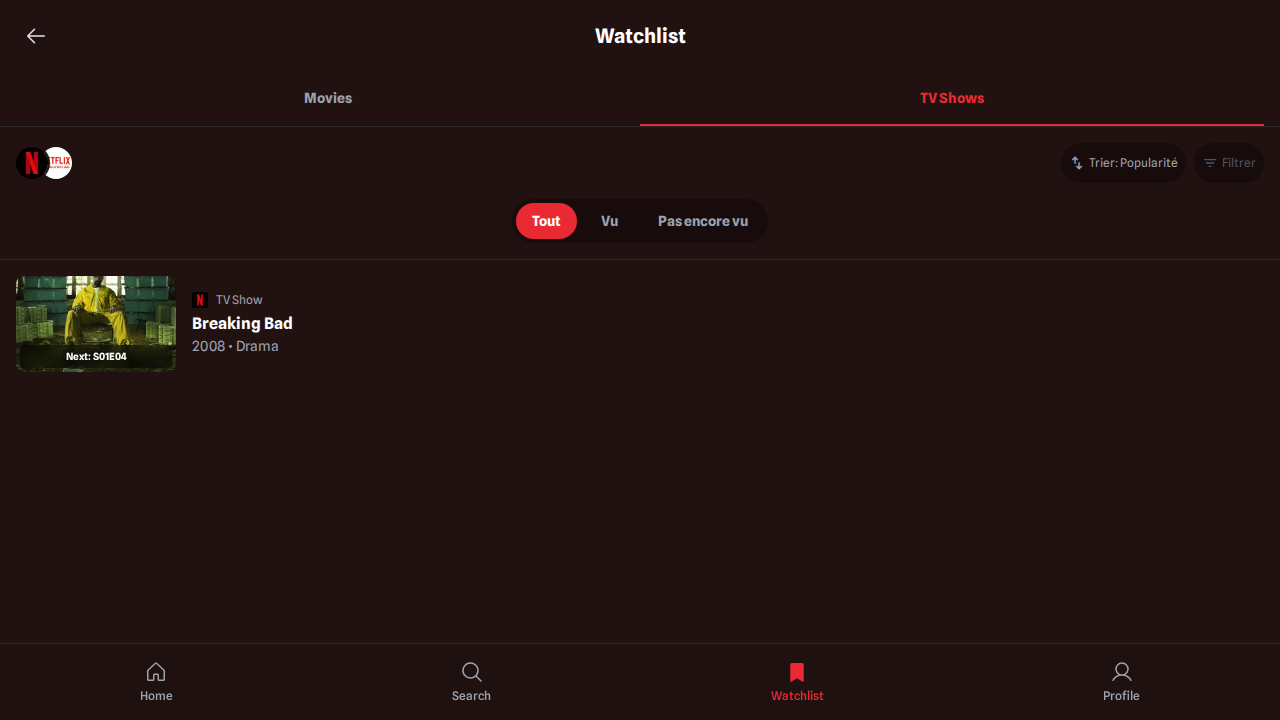
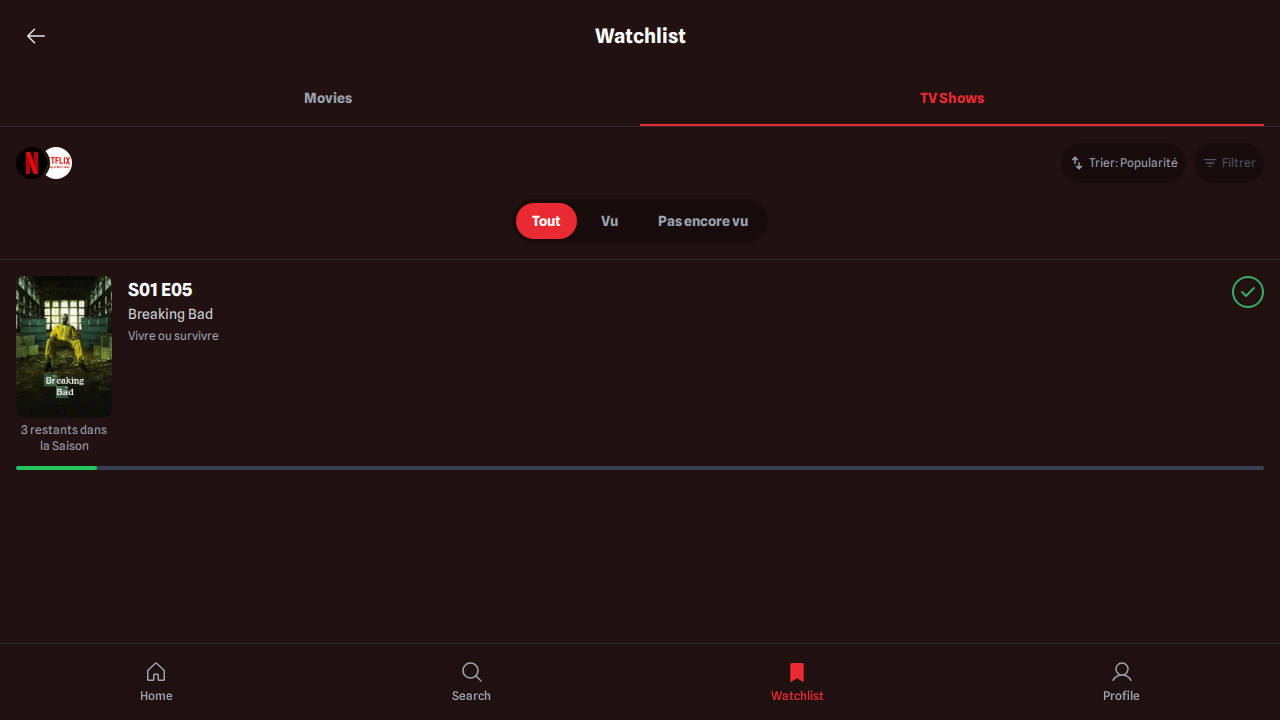
feat(series): Implement episode tracking and redesign watchlist
This commit introduces a comprehensive episode tracking system for TV series and a complete redesign of the "My List" page, which has been renamed to "Watchlist".

Key features include:
- Users can now mark individual episodes as watched on a series' detail page.
- The state of watched episodes is saved to localStorage.
- Checking the first episode automatically adds the series to the watchlist.
- When all episodes are watched, the series is automatically marked as 'viewed'.
- A confirmation modal is shown if a user marks a partially watched series as fully viewed.

The Watchlist page (`watchlist.html`) has been completely redesigned to provide a richer user experience:
- It now displays different UI cards for unwatched and in-progress TV shows.
- In-progress shows display the next episode to watch, a progress bar, and a button to quickly mark the next episode as watched.
- Implemented a localStorage-based caching system for TMDB API calls to significantly improve performance and reduce load times.

Changed region(s): [[0.0, 0.5806, 1.0, 0.6722], [0.0, 0.3667, 0.25, 0.55], [0.9688, 0.3972, 1.0, 0.4278]]

diff --git a/watchlist.js b/watchlist.js
@@ -70,12 +70,35 @@ document.addEventListener('alpine:init', () => {
             }).filter(Boolean);
         },
 
+        getCachedData(key) {
+            const cached = localStorage.getItem(key);
+            if (!cached) return null;
+
+            const { timestamp, data } = JSON.parse(cached);
+            const isExpired = (new Date().getTime() - timestamp) > 24 * 60 * 60 * 1000; // 24 hours
+
+            return isExpired ? null : data;
+        },
+
+        setCachedData(key, data) {
+            const item = {
+                timestamp: new Date().getTime(),
+                data: data
+            };
+            localStorage.setItem(key, JSON.stringify(item));
+        },
+
         async fetchMovieDetails(movieId) {
+            const cacheKey = `movie-details-${movieId}`;
+            const cachedData = this.getCachedData(cacheKey);
+            if (cachedData) return cachedData;
+
             try {
                 const res = await fetch(`https://api.themoviedb.org/3/movie/${movieId}?api_key=${TMDB_API_KEY}&append_to_response=watch/providers&language=fr-FR`);
                 if (!res.ok) return null;
                 const data = await res.json();
                 data.providers = data['watch/providers']?.results?.FR?.flatrate || [];
+                this.setCachedData(cacheKey, data);
                 return data;
             } catch (e) {
                 return null;
@@ -83,6 +106,10 @@ document.addEventListener('alpine:init', () => {
         },
 
         async fetchFullSeriesDetails(seriesId) {
+            const cacheKey = `series-details-${seriesId}`;
+            const cachedData = this.getCachedData(cacheKey);
+            if (cachedData) return cachedData;
+
             try {
                 const seriesRes = await fetch(`https://api.themoviedb.org/3/tv/${seriesId}?api_key=${TMDB_API_KEY}&append_to_response=watch/providers&language=fr-FR`);
                 if (!seriesRes.ok) return null;
@@ -98,6 +125,8 @@ document.addEventListener('alpine:init', () => {
 
                 const seasonsWithEpisodes = await Promise.all(seasonPromises);
                 seriesData.seasons = seasonsWithEpisodes.filter(s => s);
+
+                this.setCachedData(cacheKey, seriesData);
                 return seriesData;
             } catch (e) {
                 console.error(`Failed to fetch full details for series ${seriesId}:`, e);
@@ -209,10 +238,18 @@ document.addEventListener('alpine:init', () => {
         },
 
         async createMediaItemHTML(item) {
-            const isTV = item.type === 'serie';
-            const link = isTV ? `serie.html?id=${item.id}` : `film.html?id=${item.id}`;
-            const yearAndGenre = `${item.year} • ${item.genres[0]}`;
+            if (item.type === 'movie') {
+                return this.createMovieItemHTML(item);
+            }
+            if (item.type === 'serie') {
+                return this.createTVItemHTML(item);
+            }
+            return '';
+        },
 
+        createMovieItemHTML(item) {
+            const link = `film.html?id=${item.id}`;
+            const yearAndGenre = `${item.year} • ${item.genres[0]}`;
             const providers = item.apiDetails?.providers;
             const platformLogo = providers && providers.length > 0
                 ? `<img src="https://image.tmdb.org/t/p/w500${providers[0].logo_path}" alt="${providers[0].provider_name}" class="h-4 w-4 rounded-sm">`
@@ -224,42 +261,11 @@ document.addEventListener('alpine:init', () => {
                     <div class="absolute inset-0 flex items-center justify-center rounded-lg bg-black/60">
                         <div class="text-center">
                             <div class="inline-flex h-8 w-8 items-center justify-center rounded-full bg-green-500 text-white">
-                                <svg fill="none" height="20" stroke="currentColor" stroke-linecap="round" stroke-linejoin="round" stroke-width="3" viewBox="0 0 24 24" width="20" xmlns="http://www.w3.org/2000/svg">
-                                    <polyline points="20 6 9 17 4 12"></polyline>
-                                </svg>
+                                <svg fill="none" height="20" stroke="currentColor" stroke-linecap="round" stroke-linejoin="round" stroke-width="3" viewBox="0 0 24 24" width="20" xmlns="http://www.w3.org/2000/svg"><polyline points="20 6 9 17 4 12"></polyline></svg>
                             </div>
                             <p class="mt-1 text-xs font-semibold text-white">Watched</p>
                         </div>
                     </div>`;
-            } else if (isTV && item.apiDetails) {
-                const watchedEpisodes = JSON.parse(localStorage.getItem('watchedEpisodes')) || {};
-                const seriesWatchedEpisodes = new Set(watchedEpisodes[item.id] || []);
-                const watchedCount = seriesWatchedEpisodes.size;
-
-                if (watchedCount > 0 && watchedCount < item.apiDetails.number_of_episodes) {
-                    let nextEpisode = null;
-                    const sortedSeasons = item.apiDetails.seasons
-                        .filter(s => s.season_number > 0)
-                        .sort((a, b) => a.season_number - b.season_number);
-
-                    for (const season of sortedSeasons) {
-                        const sortedEpisodes = season.episodes.sort((a, b) => a.episode_number - b.episode_number);
-                        for (const episode of sortedEpisodes) {
-                            if (!seriesWatchedEpisodes.has(episode.id)) {
-                                nextEpisode = episode;
-                                break;
-                            }
-                        }
-                        if (nextEpisode) break;
-                    }
-
-                    if (nextEpisode) {
-                        overlayHTML = `
-                        <div class="absolute bottom-1 left-1 right-1 rounded bg-black/50 p-1 backdrop-blur-sm text-center">
-                           <p class="text-[10px] font-semibold text-white">Next: S${this.formatEpisodeNumber(nextEpisode.season_number)}E${this.formatEpisodeNumber(nextEpisode.episode_number)}</p>
-                        </div>`;
-                    }
-                }
             }
 
             return `
@@ -271,17 +277,162 @@ document.addEventListener('alpine:init', () => {
                     <div class="flex-1">
                         <div class="flex items-center gap-2">
                            ${platformLogo}
-                           <p class="text-xs text-gray-500 dark:text-gray-400">${isTV ? 'TV Show' : 'Movie'}</p>
+                           <p class="text-xs text-gray-500 dark:text-gray-400">Movie</p>
                         </div>
                         <h3 class="font-bold text-gray-900 dark:text-white mt-1">${item.title}</h3>
                         <p class="text-sm text-gray-500 dark:text-gray-400">${yearAndGenre}</p>
                     </div>
-                </a>
-            `;
+                </a>`;
+        },
+
+        createTVItemHTML(item) {
+            const watchedEpisodes = JSON.parse(localStorage.getItem('watchedEpisodes')) || {};
+            const seriesWatchedEpisodes = new Set(watchedEpisodes[item.id] || []);
+            const watchedCount = seriesWatchedEpisodes.size;
+
+            if (item.isWatched || (item.apiDetails && watchedCount > 0 && watchedCount === item.apiDetails.number_of_episodes)) {
+                 return `
+                    <a href="serie.html?id=${item.id}" class="flex items-center gap-4 p-4">
+                        <div class="relative h-24 w-40 flex-shrink-0">
+                            <div class="h-full w-full rounded-lg bg-cover bg-center" style="background-image: url('${item.posterUrl}');"></div>
+                            <div class="absolute inset-0 flex items-center justify-center rounded-lg bg-black/60">
+                                <div class="text-center">
+                                    <div class="inline-flex h-8 w-8 items-center justify-center rounded-full bg-green-500 text-white"><svg fill="none" height="20" stroke="currentColor" stroke-linecap="round" stroke-linejoin="round" stroke-width="3" viewBox="0 0 24 24" width="20" xmlns="http://www.w3.org/2000/svg"><polyline points="20 6 9 17 4 12"></polyline></svg></div>
+                                    <p class="mt-1 text-xs font-semibold text-white">Watched</p>
+                                </div>
+                            </div>
+                        </div>
+                        <div class="flex-1">
+                            <h3 class="font-bold text-gray-900 dark:text-white">${item.title}</h3>
+                            <p class="text-sm text-gray-500 dark:text-gray-400">${item.year} • ${item.genres[0]}</p>
+                        </div>
+                    </a>`;
+            }
+
+            if (watchedCount > 0 && item.apiDetails) {
+                return this.createInProgressTVItemHTML(item, seriesWatchedEpisodes);
+            }
+
+            return this.createUnwatchedTVItemHTML(item);
+        },
+
+        createUnwatchedTVItemHTML(item) {
+            if (!item.apiDetails || !item.apiDetails.seasons) return '<div class="p-4 text-gray-400">Loading show details...</div>';
+
+            const firstSeason = item.apiDetails.seasons.find(s => s.season_number === 1);
+            if (!firstSeason || !firstSeason.episodes || firstSeason.episodes.length === 0) return '';
+
+            const firstEpisode = firstSeason.episodes.find(e => e.episode_number === 1);
+            if (!firstEpisode) return '';
+
+            const providers = item.apiDetails?.providers;
+            const platformHTML = providers && providers.length > 0
+                ? `<div class="flex items-center gap-2 mt-2">
+                       <span class="text-xs text-gray-400">dispo sur</span>
+                       <img src="https://image.tmdb.org/t/p/w500${providers[0].logo_path}" alt="${providers[0].provider_name}" class="h-5">
+                   </div>`
+                : '';
+
+            const totalSeasons = item.apiDetails.number_of_seasons;
+            const startYear = item.year.split(' - ')[0];
+
+            return `
+                <div class="flex items-start gap-4 p-4">
+                    <a href="serie.html?id=${item.id}" class="w-24 flex-shrink-0">
+                        <img class="w-full rounded-lg" src="${item.posterUrl}" alt="${item.title}">
+                    </a>
+                    <div class="flex-1">
+                        <a href="serie.html?id=${item.id}">
+                            <h3 class="font-bold text-lg text-white">${item.title}</h3>
+                            <p class="text-sm text-gray-400">${totalSeasons} saisons | ${startYear}</p>
+                        </a>
+                        <div class="mt-4">
+                            <p class="text-sm font-semibold text-gray-300">${firstEpisode.name}</p>
+                            ${platformHTML}
+                        </div>
+                    </div>
+                </div>`;
+        },
+
+        createInProgressTVItemHTML(item, seriesWatchedEpisodes) {
+            let nextEpisode = null;
+            let currentSeasonForProgress = null;
+
+            const sortedSeasons = item.apiDetails.seasons
+                .filter(s => s.season_number > 0)
+                .sort((a, b) => a.season_number - b.season_number);
+
+            for (const season of sortedSeasons) {
+                const sortedEpisodes = season.episodes.sort((a, b) => a.episode_number - b.episode_number);
+                for (const episode of sortedEpisodes) {
+                    if (!seriesWatchedEpisodes.has(episode.id)) {
+                        nextEpisode = episode;
+                        currentSeasonForProgress = season;
+                        break;
+                    }
+                }
+                if (nextEpisode) break;
+            }
+
+            if (!nextEpisode || !currentSeasonForProgress) {
+                return this.createUnwatchedTVItemHTML(item);
+            }
+
+            const seasonEpisodeIds = new Set(currentSeasonForProgress.episodes.map(e => e.id));
+            const seasonWatchedCount = [...seriesWatchedEpisodes].filter(id => seasonEpisodeIds.has(id)).length;
+            const remainingInSeason = currentSeasonForProgress.episodes.length - seasonWatchedCount;
+            const totalProgress = (seriesWatchedEpisodes.size / item.apiDetails.number_of_episodes) * 100;
+
+            return `
+                <div class="p-4">
+                    <div class="flex items-start gap-4">
+                        <a href="serie.html?id=${item.id}" class="w-24 flex-shrink-0">
+                            <img class="w-full rounded-lg" src="${item.posterUrl}" alt="${item.title}">
+                            <p class="text-xs text-center text-gray-400 mt-1">${remainingInSeason} restants dans la Saison</p>
+                        </a>
+                        <div class="flex-1">
+                             <a href="serie.html?id=${item.id}">
+                                <h3 class="text-lg font-bold text-white">S${this.formatEpisodeNumber(nextEpisode.season_number)} E${this.formatEpisodeNumber(nextEpisode.episode_number)}</h3>
+                                <p class="text-sm text-gray-300">${item.title}</p>
+                                <p class="text-xs text-gray-400 mt-1">${nextEpisode.name}</p>
+                            </a>
+                        </div>
+                        <button aria-label="Mark episode as watched" @click="markEpisodeWatched(${item.id}, ${nextEpisode.id})" class="h-8 w-8 rounded-full border-2 border-gray-500 text-gray-500 flex items-center justify-center flex-shrink-0 hover:border-green-500 hover:text-green-500 transition-colors">
+                            <svg fill="currentColor" height="20" viewBox="0 0 20 20" width="20"><path d="M16.707 5.293a1 1 0 010 1.414l-8 8a1 1 0 01-1.414 0l-4-4a1 1 0 011.414-1.414L8 12.586l7.293-7.293a1 1 0 011.414 0z"></path></svg>
+                        </button>
+                    </div>
+                    <div class="mt-3 h-1 w-full rounded-full bg-gray-700">
+                        <div class="h-1 rounded-full bg-green-500" style="width: ${totalProgress}%"></div>
+                    </div>
+                </div>`;
         },
 
         formatEpisodeNumber(num) {
             return String(num).padStart(2, '0');
+        },
+
+        async markEpisodeWatched(seriesId, episodeId) {
+            let watchedEpisodes = JSON.parse(localStorage.getItem('watchedEpisodes')) || {};
+            if (!watchedEpisodes[seriesId]) watchedEpisodes[seriesId] = [];
+
+            const seriesIdNum = parseInt(seriesId, 10);
+
+            if (!watchedEpisodes[seriesId].includes(episodeId)) {
+                watchedEpisodes[seriesId].push(episodeId);
+                localStorage.setItem('watchedEpisodes', JSON.stringify(watchedEpisodes));
+            }
+
+            const item = this.enrichedWatchlist.find(i => i.id === seriesIdNum);
+            if (item && item.apiDetails && watchedEpisodes[seriesId].length === item.apiDetails.number_of_episodes) {
+                let watchedSeries = JSON.parse(localStorage.getItem('watchedSeries')) || [];
+                if (!watchedSeries.includes(seriesIdNum)) {
+                    watchedSeries.push(seriesIdNum);
+                    localStorage.setItem('watchedSeries', JSON.stringify(watchedSeries));
+                }
+                item.isWatched = true;
+            }
+
+            await this.renderMedia();
         }
     }));
 });

diff --git a/verification/verify_new_features.py b/verification/verify_new_features.py
@@ -8,41 +8,34 @@ async def main():
         browser = await p.chromium.launch()
         page = await browser.new_page()
 
-        # Local storage setup for watchlist
-        watchlist = [
-            {"id": 1396, "added_at": "2024-01-01T12:00:00Z"},  # Breaking Bad
-        ]
+        # Setup: Add Breaking Bad to watchlist and mark first 3 episodes as watched
+        watchlist = [{"id": 1396, "added_at": "2024-01-01T12:00:00Z"}]
+        watched_episodes = {"1396": [62085, 62086, 62087]} # S01E01, S01E02, S01E03
+
+        # Go to the page FIRST, then set up local storage
         await page.goto("http://localhost:8080/watchlist.html")
         await page.evaluate(f"localStorage.setItem('watchlist', '{json.dumps(watchlist)}')")
-
-        # Local storage for watched episodes
-        watched_episodes = {
-            "1396": [62085, 62086, 62087] # S01E01, S01E02, S01E03
-        }
         await page.evaluate(f"localStorage.setItem('watchedEpisodes', '{json.dumps(watched_episodes)}')")
 
-        await page.goto("http://localhost:8080/watchlist.html")
+        # Reload the page for localStorage changes to take effect
+        await page.reload()
 
-        # Wait for dynamic content to load
-        await page.wait_for_selector('.flex-1 h3')
+        # Wait for the initial render of the in-progress item
+        await page.wait_for_selector('h3:has-text("S01 E04")')
+        print("Initial state verified: Next episode is S01 E04.")
 
-        await asyncio.sleep(2) # Extra wait for async rendering
+        # Find and click the "Mark episode as watched" button
+        mark_watched_button = page.locator('button[aria-label="Mark episode as watched"]')
+        await mark_watched_button.click()
+        print("Clicked 'Mark as Watched' for S01 E04.")
 
-        # Verification checks
-        next_episode_text = await page.text_content('.text-\\[10px\\]')
-        if "Next: S01E04" not in next_episode_text:
-            print(f"Verification failed: 'Next Episode' text is incorrect. Found: {next_episode_text}")
-            await browser.close()
-            return
+        # Wait for the component to re-render with the next episode
+        await page.wait_for_selector('h3:has-text("S01 E05")')
+        print("Verification successful: UI updated to show S01 E05 as the next episode.")
 
-        logo = await page.query_selector('img[alt="Netflix"]')
-        if not logo:
-             print("Verification failed: Platform logo not found.")
-             await browser.close()
-             return
-
-        print("Verification successful!")
         await page.screenshot(path="verification/new_features_verification.png")
+        print("Screenshot taken.")
+
         await browser.close()
 
 asyncio.run(main())
